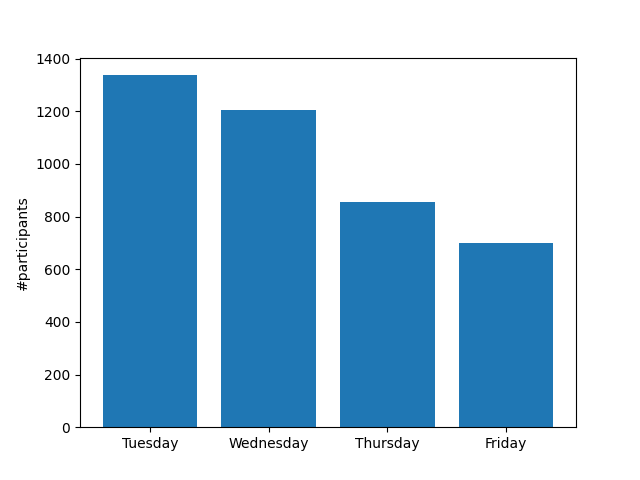
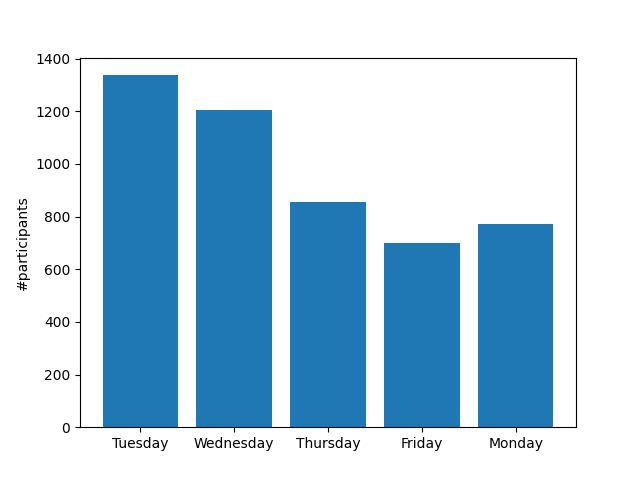
Changing definition of overlap coef

Changed region(s): [[0.1562, 0.1562, 0.875, 0.9375], [0.75, 0.9062, 0.8438, 0.9375]]

diff --git a/analyzeStats.py b/analyzeStats.py
@@ -47,6 +47,14 @@ import pandas as pd
 import numpy as np
 import matplotlib.pyplot as plt
 
+def loadPlenary():
+    d = loadFile('Plenaries/ICHEP2020_Plenary1.csv')
+    df = pd.DataFrame(d, columns = ['name', 'mail', 'mins']) 
+    df['day'] = 'Monday'
+    df['session'] = 'Plenary'
+
+    return df
+
 def loadAll():
 
     dfAll = pd.DataFrame(columns = ['name', 'mail', 'mins', 'day', 'session'])
@@ -61,9 +69,11 @@ def loadAll():
             dfAll = dfAll.append(df)
             #print(df)
 
+    dfAll['mins'] = np.clip(dfAll['mins'], a_min=0, a_max=60*6)
+
     return dfAll
 
-def plotDaysTotal(df):
+def plotDaysTotal(df, dfPlen):
     days = []
     vals = []
     for d in df['day'].unique():
@@ -71,6 +81,9 @@ def plotDaysTotal(df):
         val = len(df[(df['day'] == d) & (df['mins'] >= 15)]['name'].unique())
         vals.append(val)
 
+    valPlen = len(dfPlen[dfPlen['mins'] >= 15]['name'].unique())
+    days.append('Monday')
+    vals.append(valPlen)
 
     plt.bar(days, vals)
     plt.ylabel('#participants')
@@ -110,6 +123,33 @@ def plotDurations(df):
     #plt.show()
     plt.savefig('plots/timeHist.png')
     plt.close()
+
+
+def plotStats(df):
+    df = df[df['mins'] >= 15]
+    df['hours'] = 1./60.* df['mins']
+    res = df.groupby('name')['hours'].agg(np.sum)
+
+    nPart = len(res)
+    totTime = res.sum()
+
+    print('nPart: ',nPart)
+    print('totTime: ',int(round(totTime,0)), 'PersonHours')
+    print('timeAvg: ', round(totTime/nPart,1),'hours')
+    print('timeMed: ', round(res.median(),1),'hours')
+    
+    #plt.hist(res, bins=np.arange(0,25, 0.25)  )
+    ##res.hist()
+
+    #plt.xlabel('Attended [hours]')
+    #plt.ylabel('#participants')
+
+    ##plt.show()
+    #plt.savefig('plots/timeHist.png')
+    #plt.close()
+
+
+
 
 
 def plotDurationsCum(df):
@@ -201,11 +241,15 @@ def SessionsCorr(df):
     for i1,s1 in enumerate(sess):
         for i2,s2 in enumerate(sess):
             n12a = n12o =0
+            n1=n2= 0
             for a in res:
+                n1   += (s1 in a)
+                n2   += (s2 in a)
                 n12a += (s1 in a) and (s2 in a)
                 n12o += (s1 in a) or (s2 in a)
 
-            corrs[i1][i2] = int(round(100 * n12a / n12o))
+            #corrs[i1][i2] = int(round(100 * n12a / n12o))
+            corrs[i1][i2] = int(round(100 * n12a / min(n1,n2)))
 
 
     #idx, corrs = cluster_corr(corrs)
@@ -238,12 +282,15 @@ def SessionsCorr(df):
 
 def analyze():
     df = loadAll()
-    plotDaysTotal(df)
-    plotSessionsTotal(df)
-    plotDurations(df)
-    plotDurationsCum(df)
+    dfPlen = loadPlenary()
 
-    plotDaysVisited(df)
+    #plotStats(df)
+    #plotDaysTotal(df, dfPlen)
+    #plotSessionsTotal(df)
+    #plotDurations(df)
+    #plotDurationsCum(df)
+
+    #plotDaysVisited(df)
     SessionsCorr(df)
 
 analyze()

diff --git a/README.md b/README.md
@@ -23,6 +23,7 @@
 
 
 ### Correlation between sessions
-N(sessionX and sessionY) / N(sessionX or sessionY) in [%]
+N(sessionX and sessionY) / min[N(sessionX), N(sessionY)] in [%]
+i.e. [overlap coefficient](https://en.wikipedia.org/wiki/Overlap_coefficient)
 
 ![Histogram of days](plots/SessionsCorr.png)
